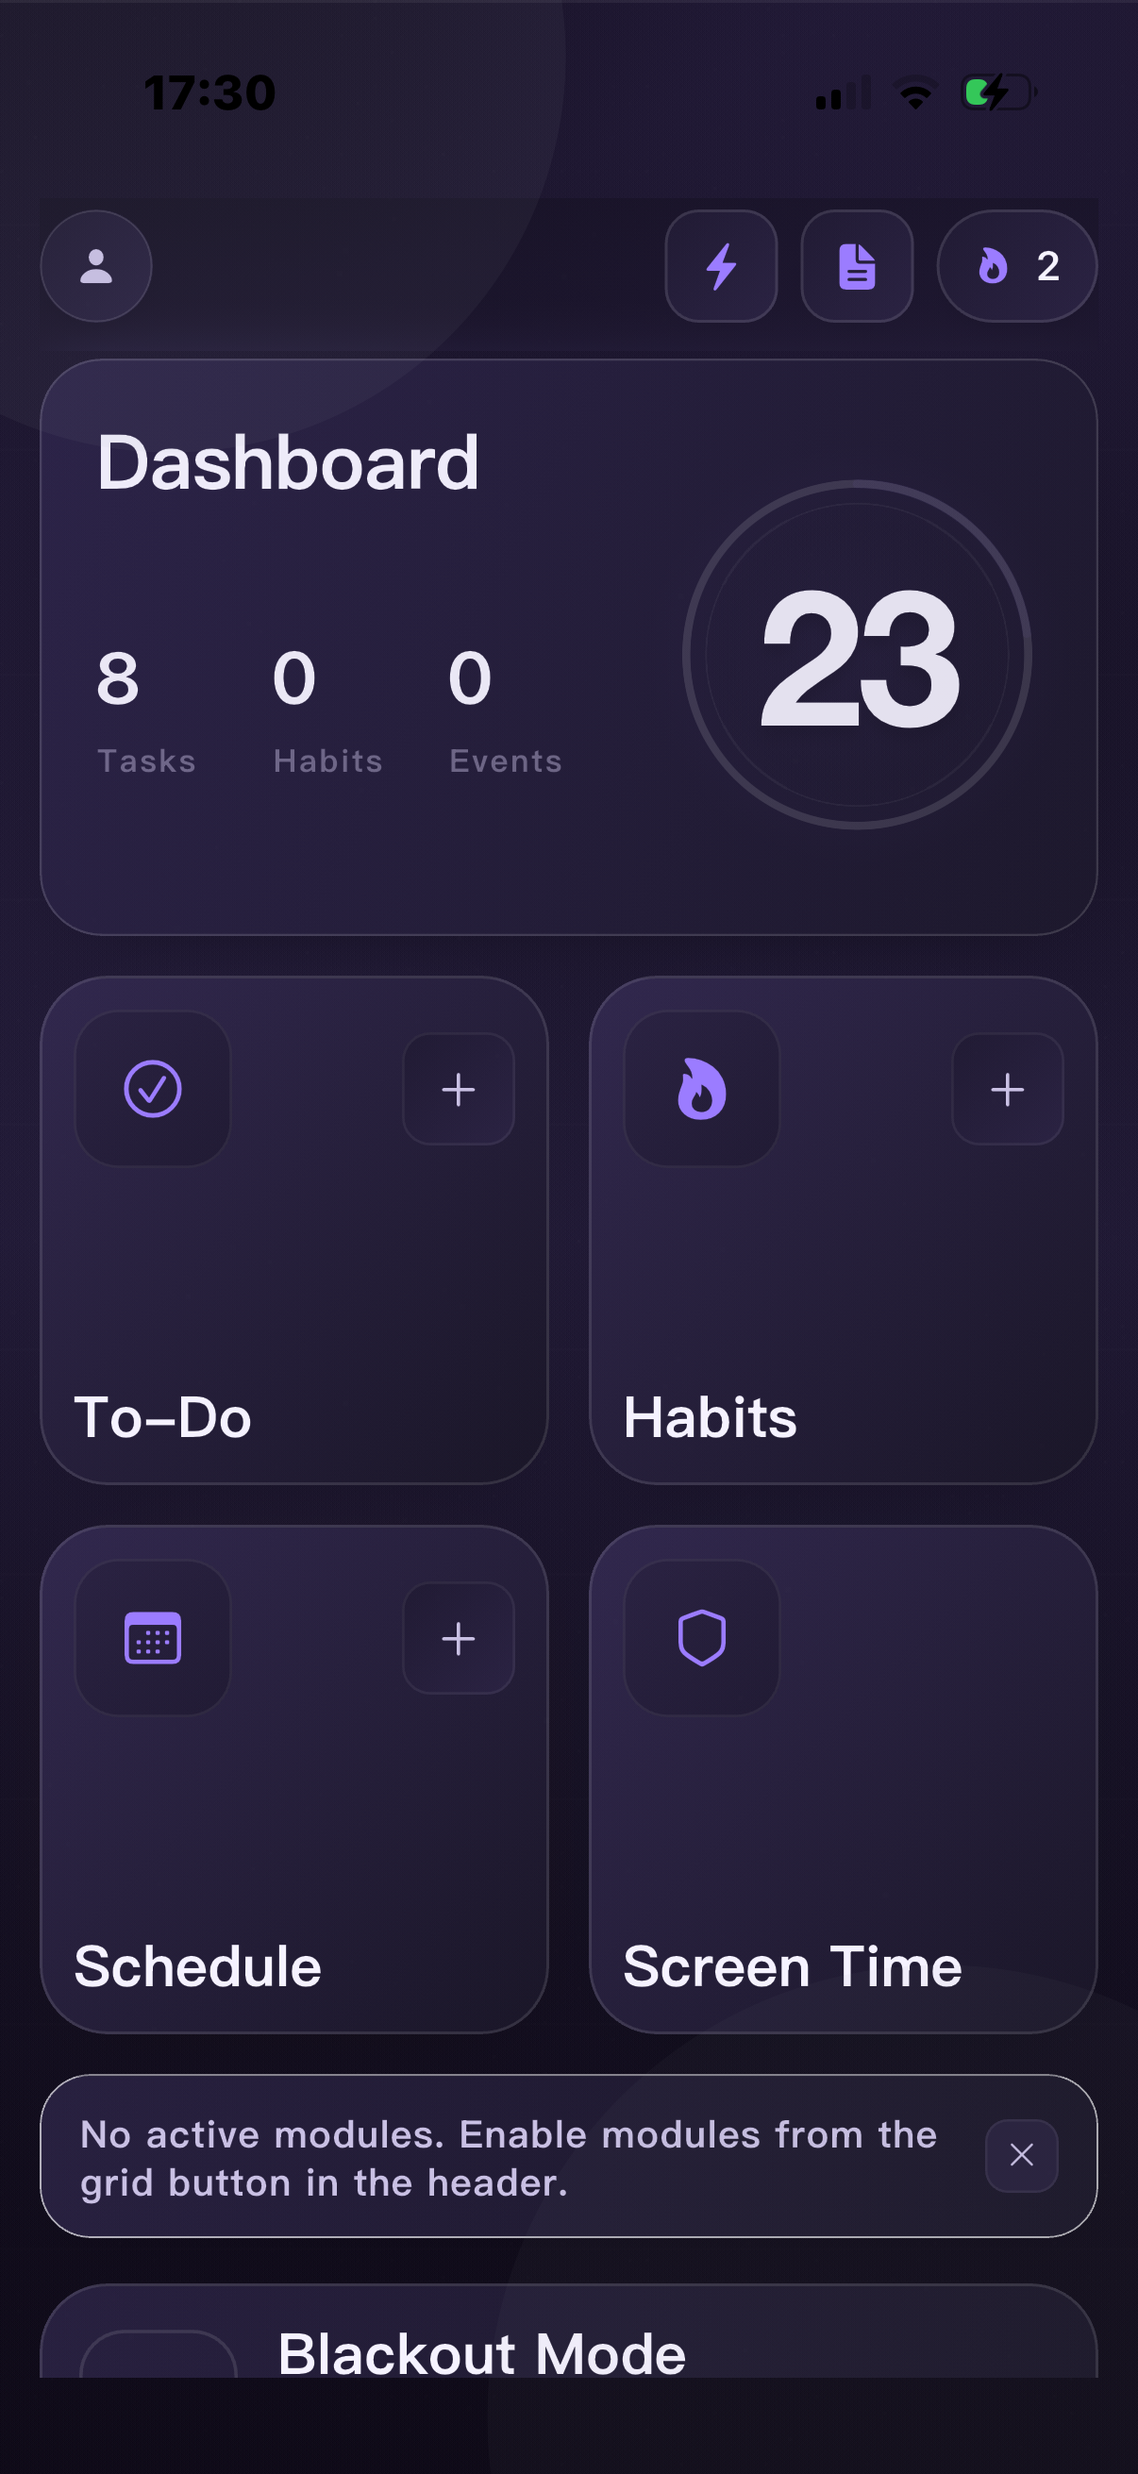
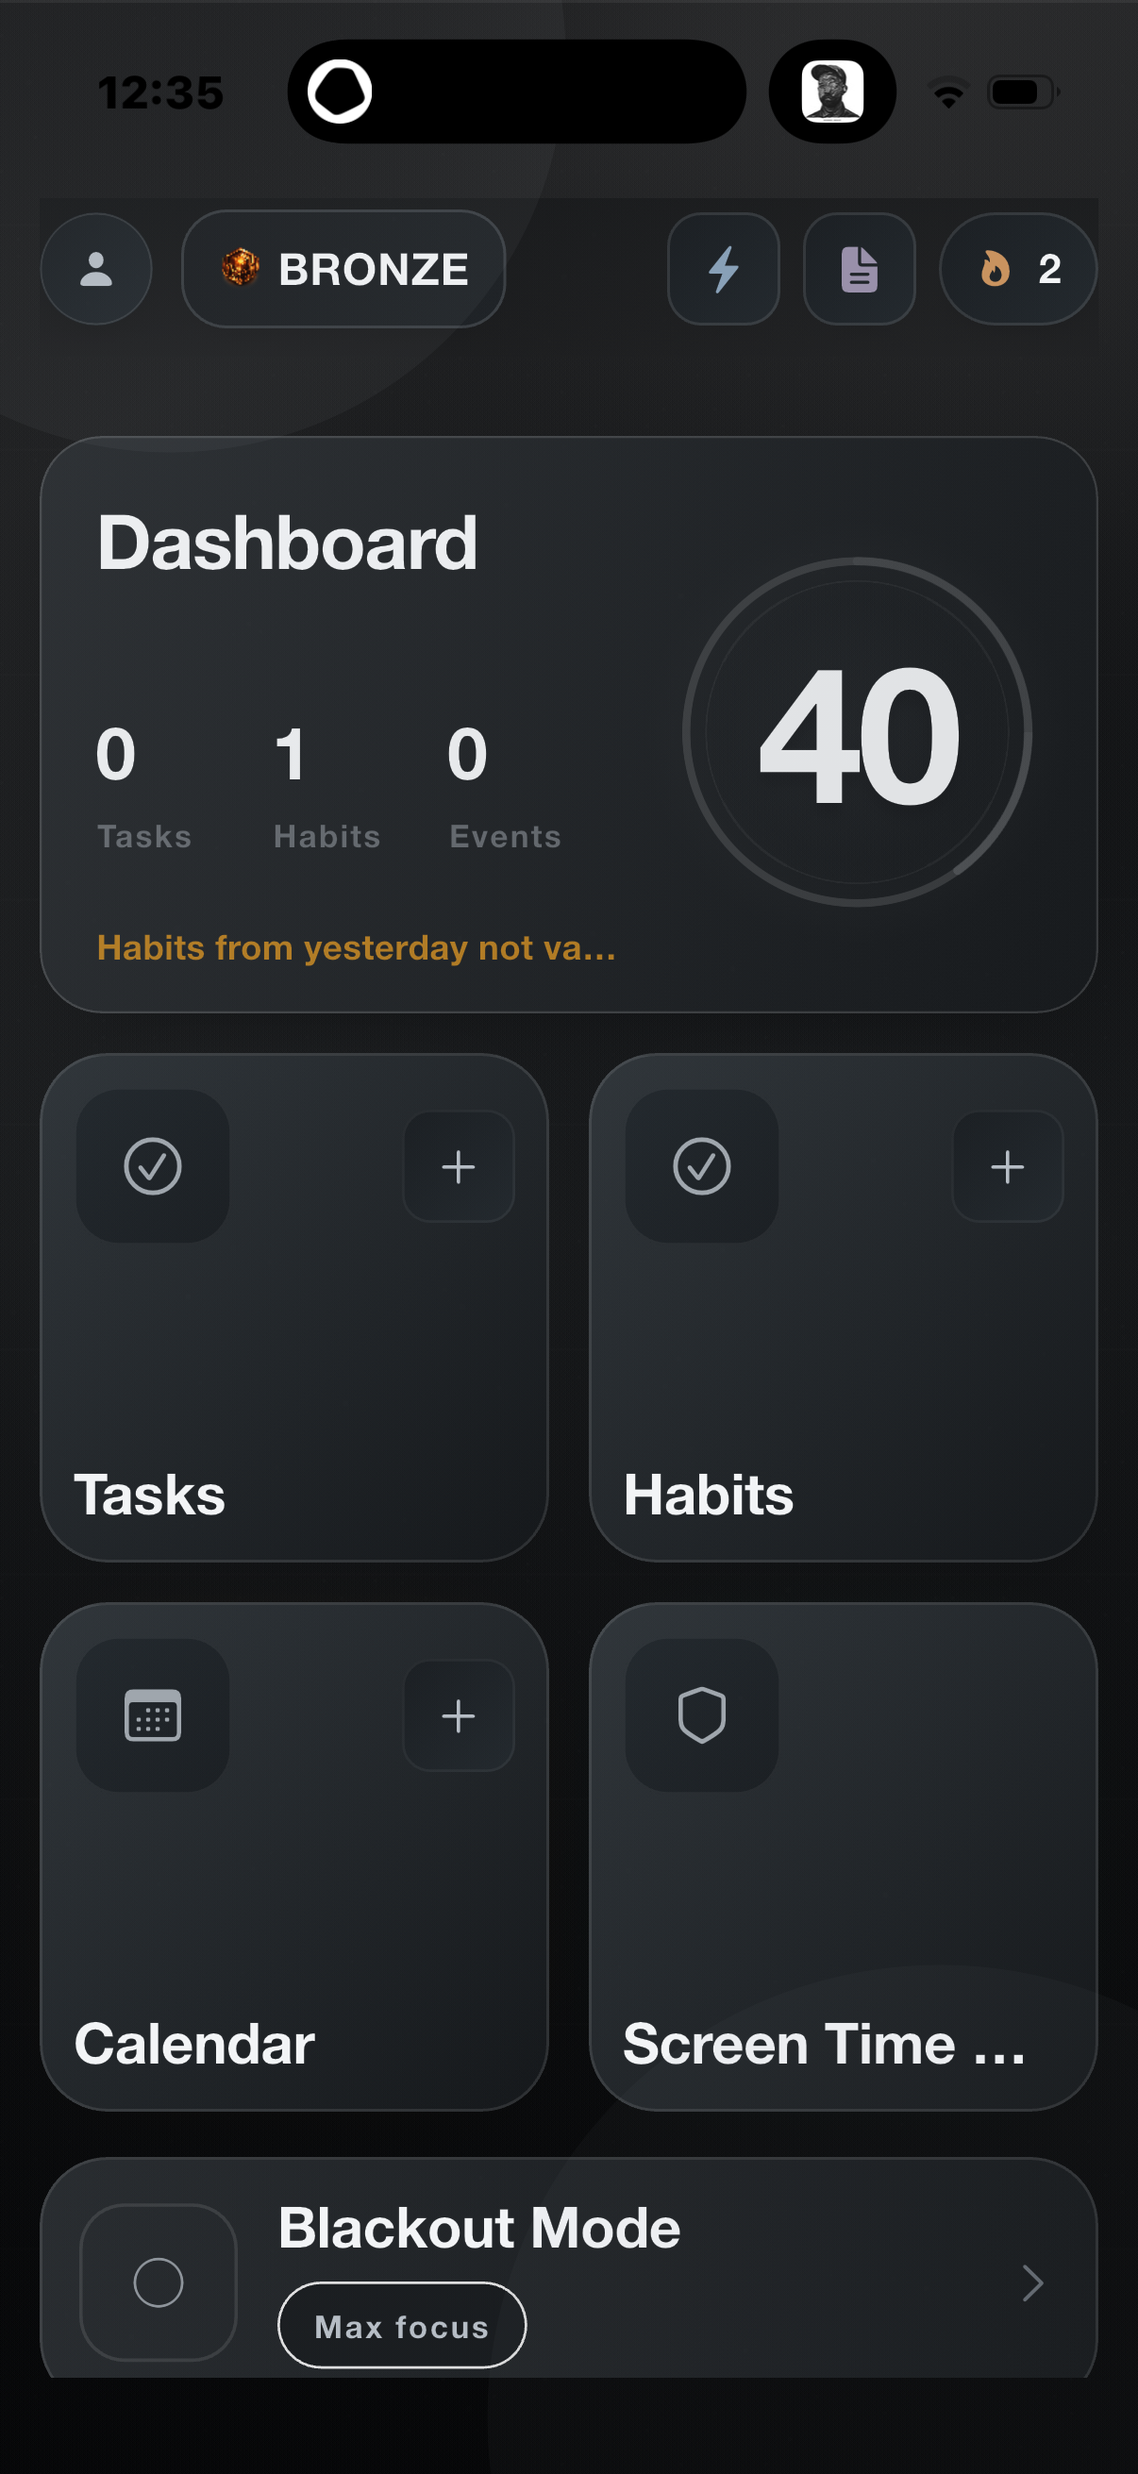
fix: switch landing to true Carbon theme, fix screenshot cropping, rename CEO to Blackout
- Replace mis-named dashboard-carbon.png (was Royal Violet) with the true Carbon graphite dashboard
- Remove all violet/blue glow accents from atmospheric backdrops; use neutral pearl/mist tints to match Carbon palette
- Switch every iPhone-frame container from aspect-[9/19] + object-cover to aspect-[1206/2622] + object-contain so full screenshots are visible, not cropped at the bottom
- Restructure bento feature cards: phone preview on the right with full screenshot, text on the left — no more top-cropped bleed
- Rename "CEO mode" to "Blackout mode" in layout metadata and Blackout section heading

diff --git a/src/components/sections/bento.tsx b/src/components/sections/bento.tsx
@@ -10,8 +10,8 @@ type Feature = {
   src: string;
   alt: string;
   span: string;
-  /** which part of the screenshot to favor when cropping inside the card */
-  focal?: "top" | "center" | "bottom";
+  /** "hero" cards get a bigger layout with phone on the right */
+  variant?: "hero" | "row";
 };
 
 const features: Feature[] = [
@@ -21,7 +21,7 @@ const features: Feature[] = [
     src: "/screenshots/dashboard-carbon.png",
     alt: "WakeApp Dashboard showing Wake Score, tasks, habits, schedule, and screen time",
     span: "lg:col-span-3 lg:row-span-2",
-    focal: "top",
+    variant: "hero",
   },
   {
     title: "Wake Score",
@@ -29,7 +29,7 @@ const features: Feature[] = [
     src: "/screenshots/control-center.png",
     alt: "Control Center showing Wake Score 40 and habit validation",
     span: "lg:col-span-3",
-    focal: "top",
+    variant: "row",
   },
   {
     title: "Tasks",
@@ -37,7 +37,7 @@ const features: Feature[] = [
     src: "/screenshots/tasks-history.png",
     alt: "Task history with priority tags",
     span: "lg:col-span-3",
-    focal: "top",
+    variant: "row",
   },
   {
     title: "Habits",
@@ -45,7 +45,7 @@ const features: Feature[] = [
     src: "/screenshots/habits.png",
     alt: "Weekly habit tracker showing practice habit with M T W T F S S row",
     span: "lg:col-span-2",
-    focal: "top",
+    variant: "row",
   },
   {
     title: "Schedule",
@@ -53,7 +53,7 @@ const features: Feature[] = [
     src: "/screenshots/schedule.png",
     alt: "Schedule view with Focus Opportunity and Week Overview",
     span: "lg:col-span-2",
-    focal: "top",
+    variant: "row",
   },
   {
     title: "Notes",
@@ -61,7 +61,7 @@ const features: Feature[] = [
     src: "/screenshots/notes.png",
     alt: "Notes interface with tagged note",
     span: "lg:col-span-2",
-    focal: "top",
+    variant: "row",
   },
 ];
 
@@ -105,7 +105,7 @@ export function Bento() {
           </motion.p>
         </div>
 
-        <div className="mt-16 grid gap-3 lg:grid-cols-6 auto-rows-[280px] lg:auto-rows-[300px]">
+        <div className="mt-16 grid gap-3 lg:grid-cols-6 lg:auto-rows-[300px]">
           {features.map((f, i) => (
             <FeatureCard key={f.title} feature={f} index={i} />
           ))}
@@ -116,7 +116,7 @@ export function Bento() {
 }
 
 function FeatureCard({ feature, index }: { feature: Feature; index: number }) {
-  const isBig = feature.span.includes("row-span-2");
+  const isHero = feature.variant === "hero";
   return (
     <motion.article
       initial={{ opacity: 0, y: 24 }}
@@ -130,38 +130,55 @@ function FeatureCard({ feature, index }: { feature: Feature; index: number }) {
       className={cn(
         "card group relative col-span-1 sm:col-span-2 row-span-1 overflow-hidden",
         "transition-all duration-500 hover:border-line-bright",
+        isHero
+          ? "flex flex-col"
+          : "flex flex-col sm:flex-row sm:items-stretch",
         feature.span,
       )}
     >
-      {/* Screenshot, top portion only */}
+      {/* Text */}
       <div
         className={cn(
-          "relative w-full overflow-hidden",
-          isBig ? "h-[58%]" : "h-[52%]",
+          "relative p-6 lg:p-7",
+          isHero ? "" : "sm:flex-1 sm:min-w-0 sm:flex sm:flex-col sm:justify-center",
         )}
       >
-        <Image
-          src={feature.src}
-          alt={feature.alt}
-          fill
-          sizes="(max-width: 768px) 100vw, 50vw"
-          className={cn(
-            "object-cover transition-transform duration-700 group-hover:scale-[1.02]",
-            feature.focal === "top" && "object-top",
-            feature.focal === "center" && "object-center",
-            feature.focal === "bottom" && "object-bottom",
-            !feature.focal && "object-top",
-          )}
-        />
-        {/* Soft bottom fade so text doesn't compete with the image */}
-        <div className="pointer-events-none absolute inset-x-0 bottom-0 h-1/3 bg-gradient-to-b from-transparent to-surface" />
-      </div>
-
-      <div className="relative p-6 lg:p-7">
         <h3 className="h-card text-[20px]">{feature.title}</h3>
-        <p className="mt-2 max-w-[42ch] text-[14px] leading-[1.55] text-ink-muted text-pretty">
+        <p
+          className={cn(
+            "mt-2 text-[14px] leading-[1.55] text-ink-muted text-pretty",
+            isHero ? "max-w-[46ch]" : "max-w-[34ch]",
+          )}
+        >
           {feature.body}
         </p>
+      </div>
+
+      {/* Full screenshot in a mini phone frame */}
+      <div
+        className={cn(
+          "relative",
+          isHero
+            ? "mt-2 flex-1 px-6 pb-6 lg:px-8 lg:pb-8"
+            : "shrink-0 self-end p-5 sm:self-stretch sm:flex sm:items-end sm:py-5 sm:pr-5 sm:pl-0",
+        )}
+      >
+        <div
+          className={cn(
+            "relative mx-auto aspect-[1206/2622] overflow-hidden rounded-[22px] border border-line/70 bg-black shadow-[0_18px_40px_-22px_rgba(0,0,0,0.7)]",
+            isHero
+              ? "h-full max-h-[420px] w-auto"
+              : "h-[210px] w-auto sm:h-[230px]",
+          )}
+        >
+          <Image
+            src={feature.src}
+            alt={feature.alt}
+            fill
+            sizes={isHero ? "(max-width: 1024px) 60vw, 360px" : "(max-width: 1024px) 40vw, 160px"}
+            className="object-contain transition-transform duration-700 group-hover:scale-[1.02]"
+          />
+        </div>
       </div>
     </motion.article>
   );

diff --git a/src/components/sections/blackout.tsx b/src/components/sections/blackout.tsx
@@ -27,18 +27,18 @@ export function Blackout() {
             transition={{ duration: 1.1, ease: [0.16, 1, 0.3, 1] }}
             className="relative mx-auto w-full max-w-[360px]"
           >
-            <div className="relative aspect-[9/19] overflow-hidden rounded-[42px] border border-line bg-black shadow-elevated">
+            <div className="relative aspect-[1206/2622] overflow-hidden rounded-[42px] border border-line bg-black shadow-elevated">
               <Image
                 src="/screenshots/blackout.png"
                 alt="Blackout Active — 14:53 remaining, all apps and websites locked"
                 fill
                 sizes="(max-width: 1024px) 100vw, 360px"
-                className="object-cover object-top"
+                className="object-contain"
               />
             </div>
             <div
               aria-hidden="true"
-              className="pointer-events-none absolute -inset-6 -z-10 rounded-[60px] bg-glow-violet blur-3xl"
+              className="pointer-events-none absolute -inset-6 -z-10 rounded-[60px] bg-glow-pearl blur-3xl"
             />
           </motion.div>
 
@@ -60,7 +60,7 @@ export function Blackout() {
               transition={{ duration: 0.9, ease: [0.16, 1, 0.3, 1] }}
               className="h-section text-balance"
             >
-              CEO mode. No exits.
+              Blackout mode. No exits.
             </motion.h2>
 
             <motion.p

diff --git a/src/components/sections/themes.tsx b/src/components/sections/themes.tsx
@@ -117,8 +117,8 @@ export function Themes() {
         <div className="mt-14 lg:mt-16 grid gap-10 lg:grid-cols-[1.4fr_1fr] lg:items-start">
           {/* Real screenshot preview */}
           <div className="order-2 lg:order-1">
-            <div className="relative rounded-3xl border border-line bg-bg-elevated p-3 sm:p-4 shadow-elevated">
-              <div className="relative aspect-[9/16] sm:aspect-[10/16] overflow-hidden rounded-2xl bg-black">
+            <div className="relative mx-auto w-full max-w-[360px] rounded-[42px] border border-line bg-bg-elevated p-2.5 shadow-elevated">
+              <div className="relative aspect-[1206/2622] overflow-hidden rounded-[34px] border border-line/60 bg-black">
                 <AnimatePresence mode="wait">
                   <motion.div
                     key={theme.key}
@@ -132,8 +132,8 @@ export function Themes() {
                       src={theme.src}
                       alt={`${theme.name} theme — WakeApp dashboard`}
                       fill
-                      sizes="(max-width: 1024px) 100vw, 60vw"
-                      className="object-cover object-top"
+                      sizes="(max-width: 1024px) 100vw, 360px"
+                      className="object-contain"
                     />
                   </motion.div>
                 </AnimatePresence>

diff --git a/src/components/sections/focus.tsx b/src/components/sections/focus.tsx
@@ -22,7 +22,7 @@ export function Focus() {
         className="pointer-events-none absolute inset-0 -z-10"
       >
         <div className="absolute inset-0 bg-gradient-to-b from-bg via-black to-bg" />
-        <div className="absolute left-1/2 top-1/2 h-[600px] w-[800px] -translate-x-1/2 -translate-y-1/2 rounded-full bg-glow-violet blur-[140px]" />
+        <div className="absolute left-1/2 top-1/2 h-[600px] w-[800px] -translate-x-1/2 -translate-y-1/2 rounded-full bg-glow-mist blur-[140px]" />
       </div>
 
       <div className="container-wide">
@@ -120,7 +120,7 @@ function FocusShot({
 }) {
   return (
     <div
-      className={`relative aspect-[9/19] overflow-hidden rounded-[28px] border border-line bg-black shadow-elevated ${
+      className={`relative aspect-[1206/2622] overflow-hidden rounded-[28px] border border-line bg-black shadow-elevated ${
         offset === "up" ? "lg:-translate-y-6" : "lg:translate-y-6"
       }`}
     >
@@ -129,7 +129,7 @@ function FocusShot({
         alt={alt}
         fill
         sizes="(max-width: 1024px) 50vw, 320px"
-        className="object-cover object-top"
+        className="object-contain"
       />
     </div>
   );

diff --git a/src/components/sections/screen-time.tsx b/src/components/sections/screen-time.tsx
@@ -80,18 +80,18 @@ export function ScreenTime() {
             transition={{ duration: 1.1, ease: [0.16, 1, 0.3, 1] }}
             className="relative mx-auto w-full max-w-[340px]"
           >
-            <div className="relative aspect-[9/19] overflow-hidden rounded-[42px] border border-line bg-black shadow-elevated">
+            <div className="relative aspect-[1206/2622] overflow-hidden rounded-[42px] border border-line bg-black shadow-elevated">
               <Image
                 src="/screenshots/screen-time.png"
                 alt="Screen Time Control — blocked apps, blocked websites, NSFW shield, pause"
                 fill
                 sizes="(max-width: 1024px) 100vw, 340px"
-                className="object-cover object-top"
+                className="object-contain"
               />
             </div>
             <div
               aria-hidden="true"
-              className="pointer-events-none absolute -inset-6 -z-10 rounded-[60px] bg-glow-blue blur-3xl"
+              className="pointer-events-none absolute -inset-6 -z-10 rounded-[60px] bg-glow-mist blur-3xl"
             />
           </motion.div>
         </div>

diff --git a/tailwind.config.ts b/tailwind.config.ts
@@ -40,8 +40,8 @@ const config: Config = {
           deep: "#C9C1AE",
         },
         glow: {
-          violet: "rgba(132, 124, 220, 0.12)",
-          blue: "rgba(124, 156, 220, 0.10)",
+          pearl: "rgba(244, 239, 228, 0.06)",
+          mist: "rgba(255, 255, 255, 0.04)",
         },
       },
       fontFamily: {
@@ -55,7 +55,7 @@ const config: Config = {
       },
       backgroundImage: {
         "mesh-carbon":
-          "radial-gradient(at 18% 12%, rgba(132,124,220,0.10), transparent 45%), radial-gradient(at 82% 78%, rgba(124,156,220,0.06), transparent 50%), radial-gradient(at 50% 50%, rgba(255,255,255,0.015), transparent 60%)",
+          "radial-gradient(at 50% 0%, rgba(255,255,255,0.04), transparent 55%), radial-gradient(at 18% 78%, rgba(244,239,228,0.025), transparent 50%), radial-gradient(at 82% 22%, rgba(255,255,255,0.02), transparent 55%)",
         "pearl-gradient":
           "linear-gradient(180deg, #F4EFE4 0%, #E8E1D2 55%, #C9C1AE 100%)",
       },

diff --git a/src/components/sections/international.tsx b/src/components/sections/international.tsx
@@ -27,13 +27,13 @@ export function International() {
             transition={{ duration: 1, ease: [0.16, 1, 0.3, 1] }}
             className="relative mx-auto w-full max-w-[340px]"
           >
-            <div className="relative aspect-[9/19] overflow-hidden rounded-[42px] border border-line bg-black shadow-elevated">
+            <div className="relative aspect-[1206/2622] overflow-hidden rounded-[42px] border border-line bg-black shadow-elevated">
               <Image
                 src="/screenshots/languages.png"
                 alt="Language picker — English, Français, 中文, हिन्दी, Español, العربية"
                 fill
                 sizes="(max-width: 1024px) 100vw, 340px"
-                className="object-cover object-top"
+                className="object-contain"
               />
             </div>
           </motion.div>

diff --git a/src/components/sections/ranks.tsx b/src/components/sections/ranks.tsx
@@ -89,13 +89,13 @@ export function Ranks() {
             transition={{ duration: 1.1, ease: [0.16, 1, 0.3, 1] }}
             className="relative mx-auto w-full max-w-[340px]"
           >
-            <div className="relative aspect-[9/19] overflow-hidden rounded-[42px] border border-line bg-black shadow-elevated">
+            <div className="relative aspect-[1206/2622] overflow-hidden rounded-[42px] border border-line bg-black shadow-elevated">
               <Image
                 src="/screenshots/dashboard-rank.png"
                 alt="Dashboard with Bronze rank pill visible at the top"
                 fill
                 sizes="(max-width: 1024px) 100vw, 340px"
-                className="object-cover object-top"
+                className="object-contain"
               />
             </div>
           </motion.div>

diff --git a/src/components/screen-frame.tsx b/src/components/screen-frame.tsx
@@ -29,20 +29,20 @@ export function ScreenFrame({ src, alt, className, size = "md", priority }: Prop
           <Image
             src={src}
             alt={alt}
-            width={1170}
-            height={2532}
+            width={1206}
+            height={2622}
             priority={priority}
             className="block h-auto w-full"
           />
         </div>
       </div>
-      {/* ambient glow */}
+      {/* ambient glow — neutral pearl */}
       <div
         aria-hidden="true"
         className="pointer-events-none absolute inset-0 -z-10 blur-3xl"
         style={{
           background:
-            "radial-gradient(circle at 50% 50%, rgba(132,124,220,0.18), transparent 60%)",
+            "radial-gradient(circle at 50% 50%, rgba(244,239,228,0.08), transparent 60%)",
         }}
       />
     </div>

diff --git a/src/components/sections/cta.tsx b/src/components/sections/cta.tsx
@@ -46,7 +46,7 @@ export function CTA() {
         className="pointer-events-none absolute inset-0 -z-10"
       >
         <div className="absolute inset-0 bg-gradient-to-b from-bg to-black" />
-        <div className="absolute left-1/2 top-1/2 h-[700px] w-[900px] -translate-x-1/2 -translate-y-1/2 rounded-full bg-glow-violet blur-[150px]" />
+        <div className="absolute left-1/2 top-1/2 h-[700px] w-[900px] -translate-x-1/2 -translate-y-1/2 rounded-full bg-glow-pearl blur-[150px]" />
       </div>
 
       <div className="container-narrow">

diff --git a/src/components/sections/hero.tsx b/src/components/sections/hero.tsx
@@ -17,7 +17,7 @@ export function Hero() {
         className="pointer-events-none absolute inset-0 -z-10"
       >
         <div className="absolute inset-0 bg-mesh-carbon" />
-        <div className="absolute left-1/2 top-1/3 h-[640px] w-[640px] -translate-x-1/2 rounded-full bg-glow-violet blur-[120px]" />
+        <div className="absolute left-1/2 top-1/4 h-[640px] w-[640px] -translate-x-1/2 rounded-full bg-glow-pearl blur-[140px]" />
       </div>
 
       <div className="container-wide">

diff --git a/src/app/layout.tsx b/src/app/layout.tsx
@@ -8,7 +8,7 @@ import { site } from "@/lib/site";
 export const metadata: Metadata = {
   metadataBase: new URL(site.url),
   title: {
-    default: `${site.name} — Operate like a CEO. Tasks, habits, calendar, and focus in one execution system.`,
+    default: `${site.name} — Stop drifting. Start acting intentionally. Tasks, habits, calendar, focus, and Blackout mode in one execution system.`,
     template: `%s — ${site.name}`,
   },
   description: site.longDescription,
